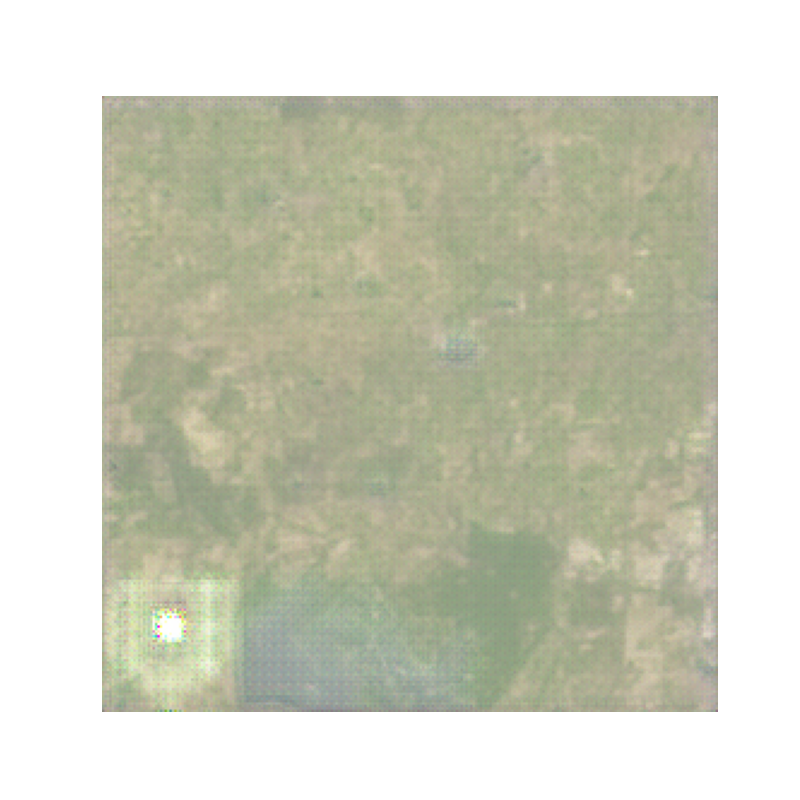
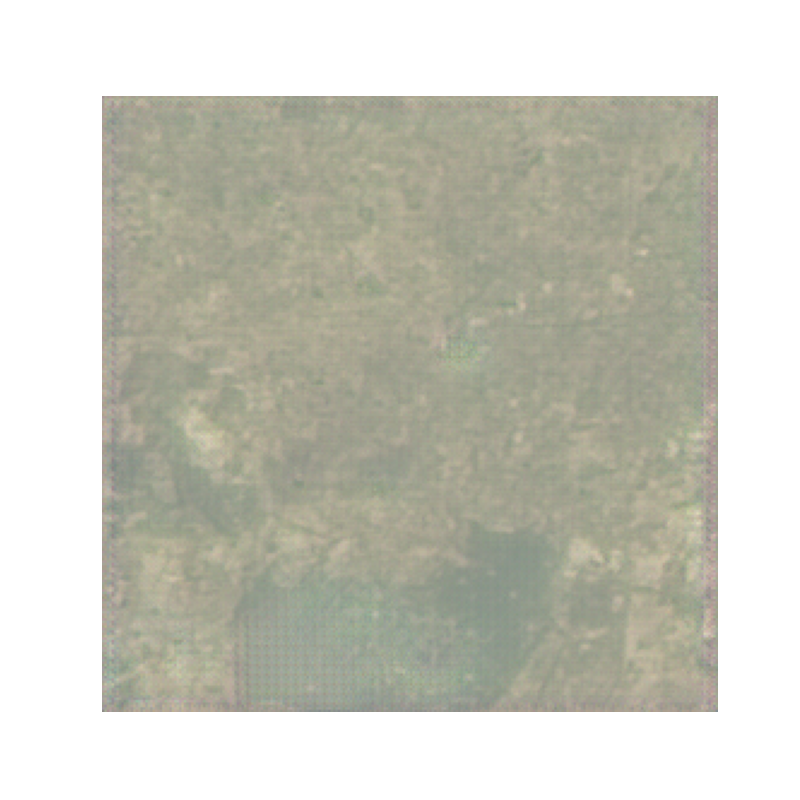
Complete V3 Pix2Pix GAN colorization pipeline

diff --git a/src/pix2pix/compare.py b/src/pix2pix/compare.py
@@ -23,11 +23,11 @@ model.eval()
 
 # Load images
 inp = cv2.imread(
-    "../../data/processed/train/input/input_0.png"
+    "data/processed/train/input/input_318.png"
 )
 
 gt = cv2.imread(
-    "../../data/processed/train/rgb/rgb_0.png"
+    "data/processed/train/rgb/rgb_318.png"
 )
 
 # Prepare tensor

diff --git a/src/colorization/train.py b/src/colorization/train.py
@@ -27,7 +27,7 @@ loader = DataLoader(
 )
 
 # Device
-device = torch.device("cpu")
+device = torch.device("cuda" if torch.cuda.is_available() else "cpu")
 
 print("Using Device:", device)
 